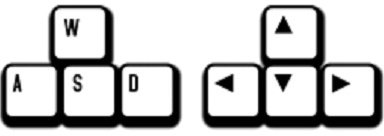
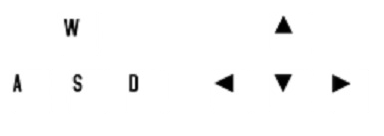
Improved design of Instructions page

Changed region(s): [[0.0, 0.0294, 1.0, 0.9706]]

diff --git a/src/pages/InstructionsPage.java b/src/pages/InstructionsPage.java
@@ -20,9 +20,9 @@ public class InstructionsPage extends Page implements ListSelectionListener{
 	private static final long serialVersionUID = 1L;
 	private volatile Result result;
 	
-    private static final String SINGLE_PLAYER = "Single Player";
-    private static final String MULTI_PLAYER = "Multi Player";
-    private static final String COOP_HINTS = "Co-op Hints";
+    private static final String SINGLE_PLAYER = "Solo";
+    private static final String MULTI_PLAYER = "Co-op";
+    private static final String COOP_HINTS = "Co-op: Tips";
     private static final String BOOTS = "Boots";
     private static final String CLOCKS = "Clocks";
     private static final String EXPLORED_TRAIL = "Explored trail";
@@ -44,7 +44,7 @@ public class InstructionsPage extends Page implements ListSelectionListener{
 		c.fill = GridBagConstraints.BOTH;
 		c.gridx = 0;
 		c.gridy = 0;
-		c.ipady = 40;
+		c.ipady = 20;
 		c.gridwidth = 2;
 		c.weighty = 0.15;
         add(titleLabel, c);
@@ -119,7 +119,7 @@ public class InstructionsPage extends Page implements ListSelectionListener{
         		+ "<br> Player 2:   Use arrows to move.<br><br>Both cats must find their favourite coloured fish before they collapse from hunger! Once you get to your fish your timer will stop counting down.<br><br>Cats cannot walk past each other.</html>", "img/WASDarrowKeys.png");
         // need to find images for the rest of these, preferably of our actual maze so it's clear what the feature is
         
-		JPanel coopPanel = makeDescription(html1 + "In Co-op mode, red cat and green cat must work together to get to their respective fish.<br><br>Cats cannot walk past each other because they eat too much fish and get fat.<br><br>Red cat loves green cat very much and all powerups that red cat picks up will go to green cat and vice versa.", "img/WASDarrowKeys.png");
+		JPanel coopPanel = makeDescription(html1 + "In Co-op mode, red cat and green cat must work together to get to their respective fish.<br><br>Cats cannot walk past each other because they eat too much fish and get fat.<br><br>Red cat loves green cat very much and all powerups that red cat picks up will go to green cat and vice versa.", "img/none.png");
 		JPanel bootsPanel = makeDescription(html1 + "Boots: <br>When cat picks up a pair of these boots, he can run faster!</html>", "img/bootsDescription.jpg");
 		JPanel clocksPanel = makeDescription(html1 + "Clocks: <br>Cat is able to turn back time with one of these clocks.<br>This means that cat has more time to find his fish.</html>", "img/clocksDescription.jpg");
 		JPanel trailPanel = makeDescription(html1 + "Explored trail: <br>Cat leaves colourful footprints to help him remember where he's been.</html>", "img/exploredTrailDescription.jpg");
@@ -172,6 +172,7 @@ public class InstructionsPage extends Page implements ListSelectionListener{
 		c.fill = GridBagConstraints.HORIZONTAL;
 		c.gridx = 0;
 		c.gridy = 0;
+		c.ipady = 20;
 		JLabel featureDescription = Components.makeText(description, 18);
 		ImageIcon feature = new ImageIcon(filename);
 		JLabel featureLabel = new JLabel(feature, JLabel.CENTER);
@@ -186,16 +187,17 @@ public class InstructionsPage extends Page implements ListSelectionListener{
 	
 	private void addReturnButton() {
         JPanel returnPanel = Components.makePanel();
+        returnPanel.setAlignmentY(JPanel.TOP_ALIGNMENT);
         returnPanel.setLayout(new FlowLayout());
 		
-        JButton returnBut = Components.makeButton("return");
-        returnBut.addActionListener(new ActionListener() {
+        JButton returnButton = Components.makeButton("return");
+        returnButton.addActionListener(new ActionListener() {
             public void actionPerformed(ActionEvent e) {
             	result = Result.RETURN_HOME;
             }
         });
 		
-		returnPanel.add(returnBut);
+		returnPanel.add(returnButton);
 		GridBagConstraints c = new GridBagConstraints();
 		c.fill = GridBagConstraints.BOTH; //not sure what this does
 		c.anchor = GridBagConstraints.PAGE_END; //bottom of space

diff --git a/src/game/Campaign.java b/src/game/Campaign.java
@@ -40,7 +40,7 @@ public class Campaign {
                 new SpeedMod(6),
                 new ClockMod(3)
         }))),
-        new CampaignLevel("Training wheels off", new MazeSettings(false, false, 15, 10, 0, 30, false, -1, Arrays.asList(new Modification[] {
+        new CampaignLevel("Lonely cat", new MazeSettings(false, false, 15, 10, 0, 30, false, -1, Arrays.asList(new Modification[] {
                 new SpeedMod(5),
                 new ClockMod(5)
         }))),
